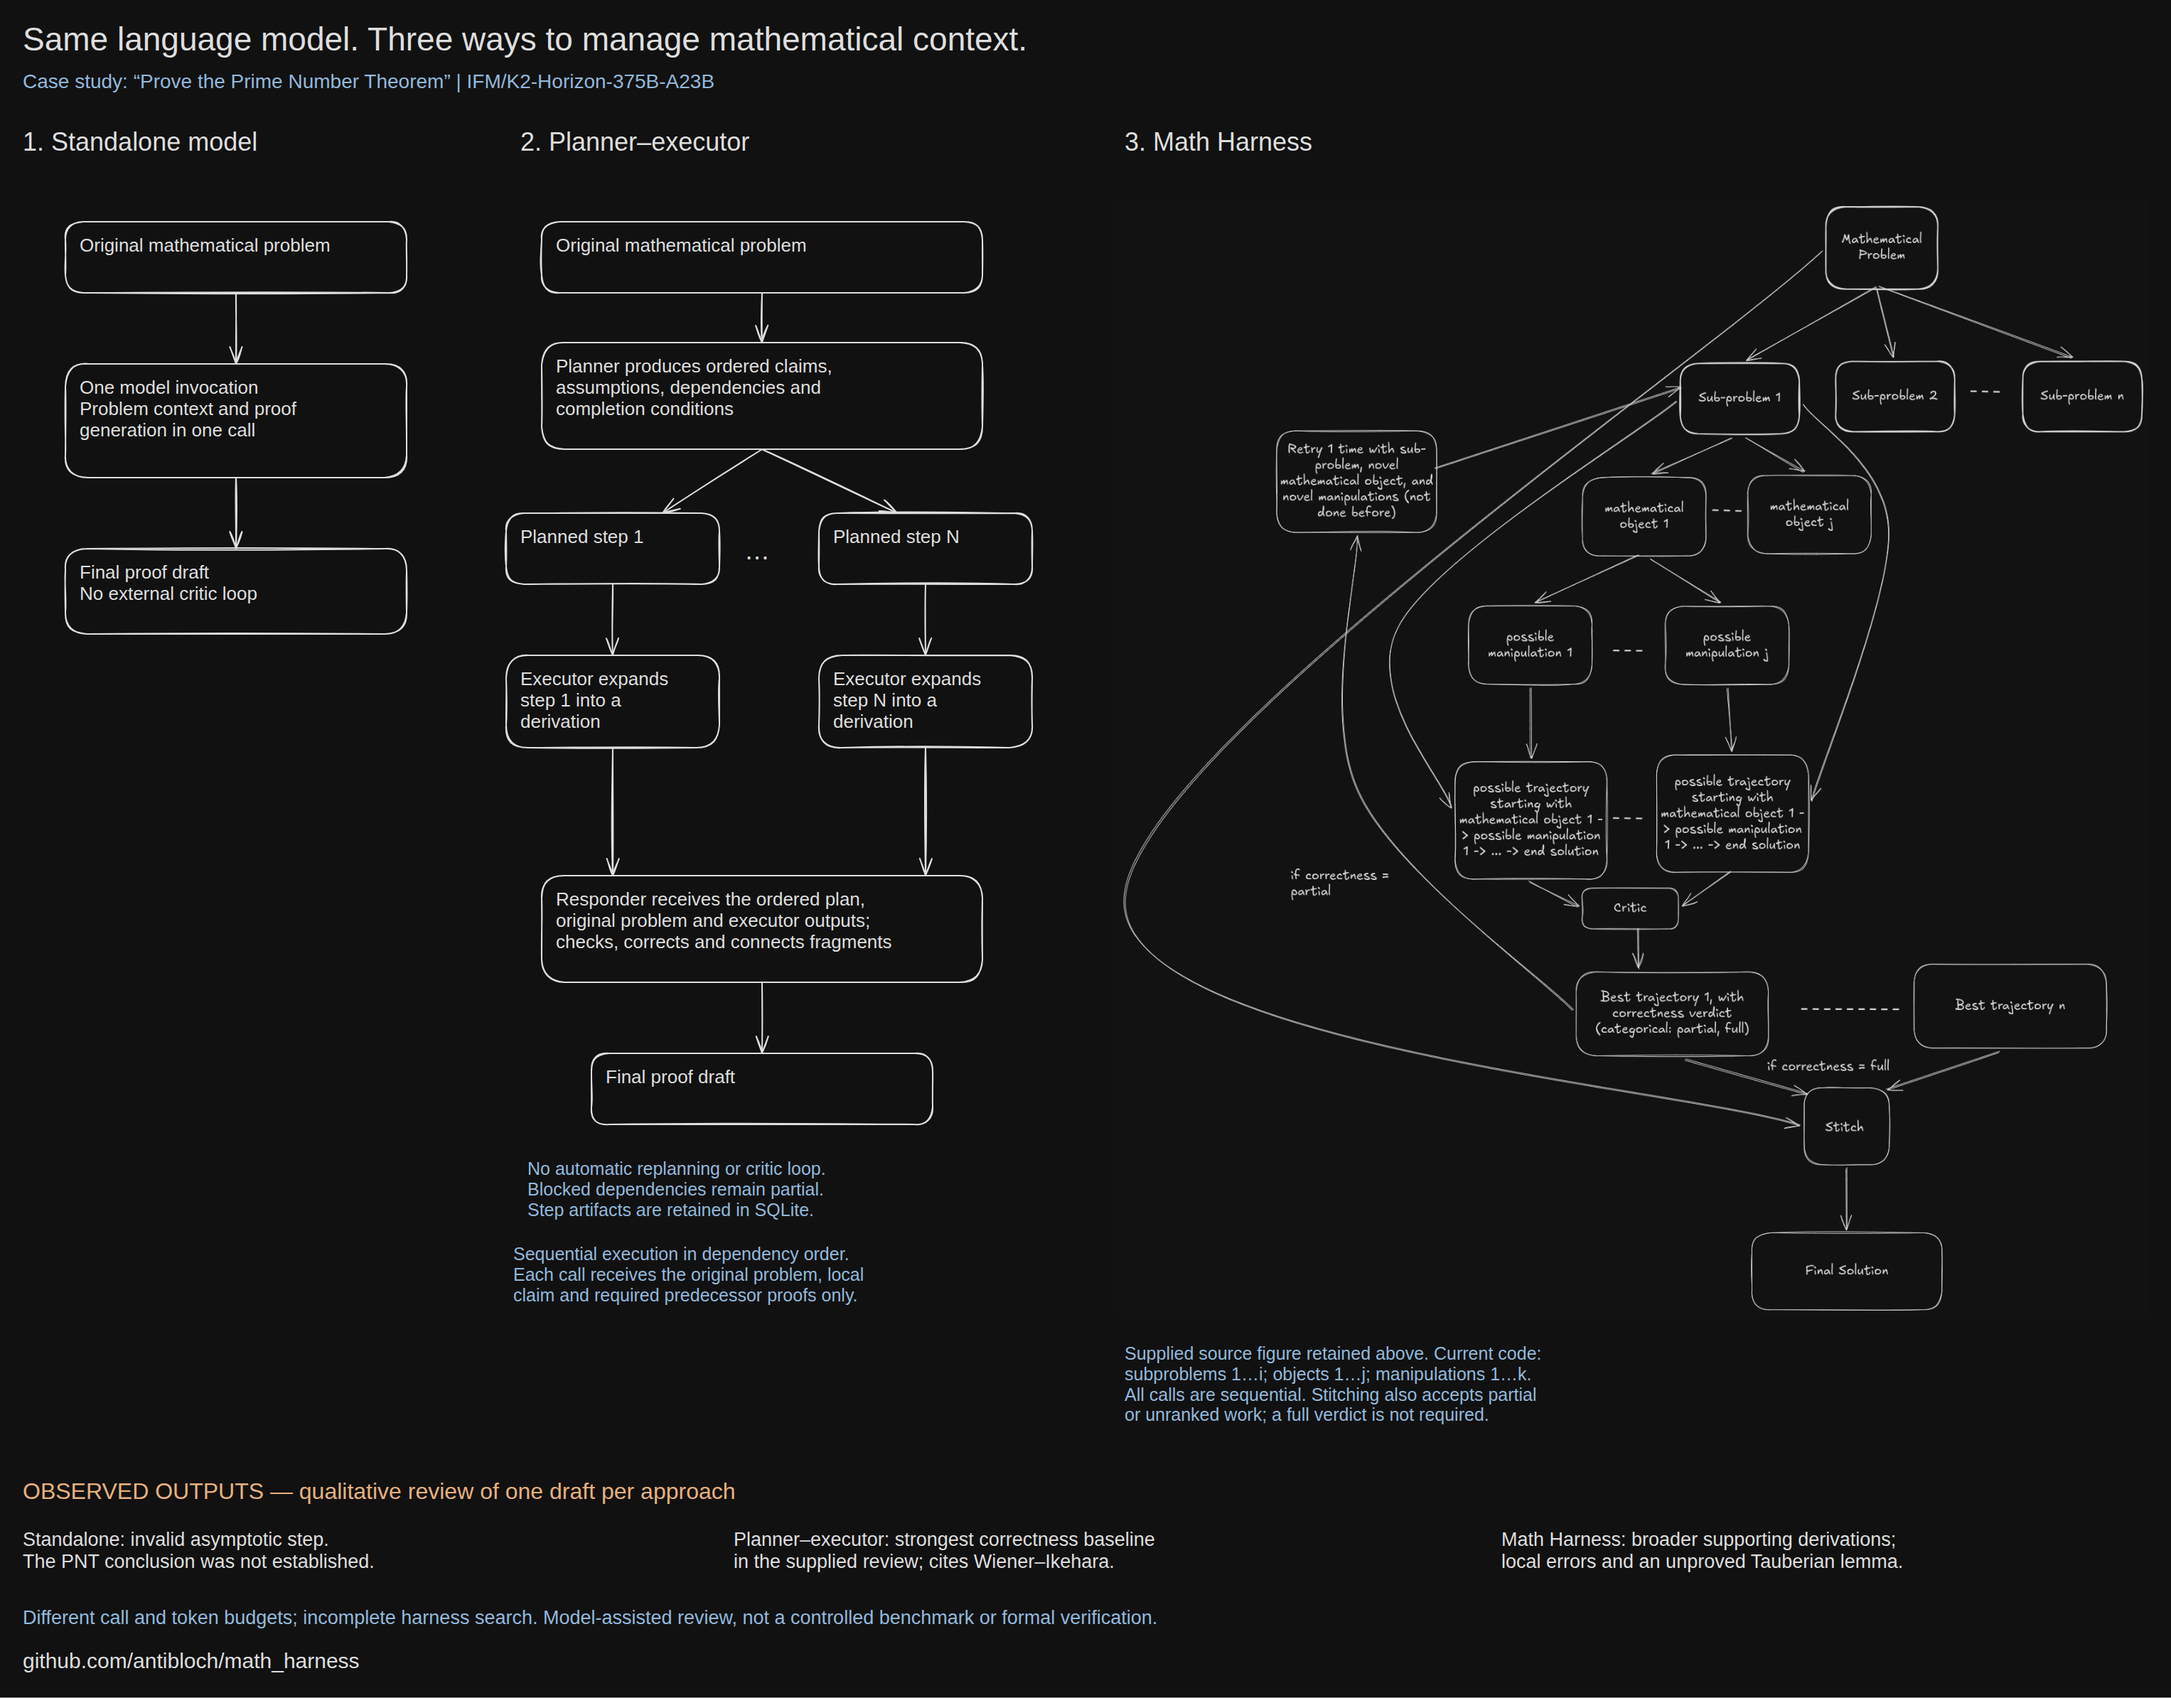
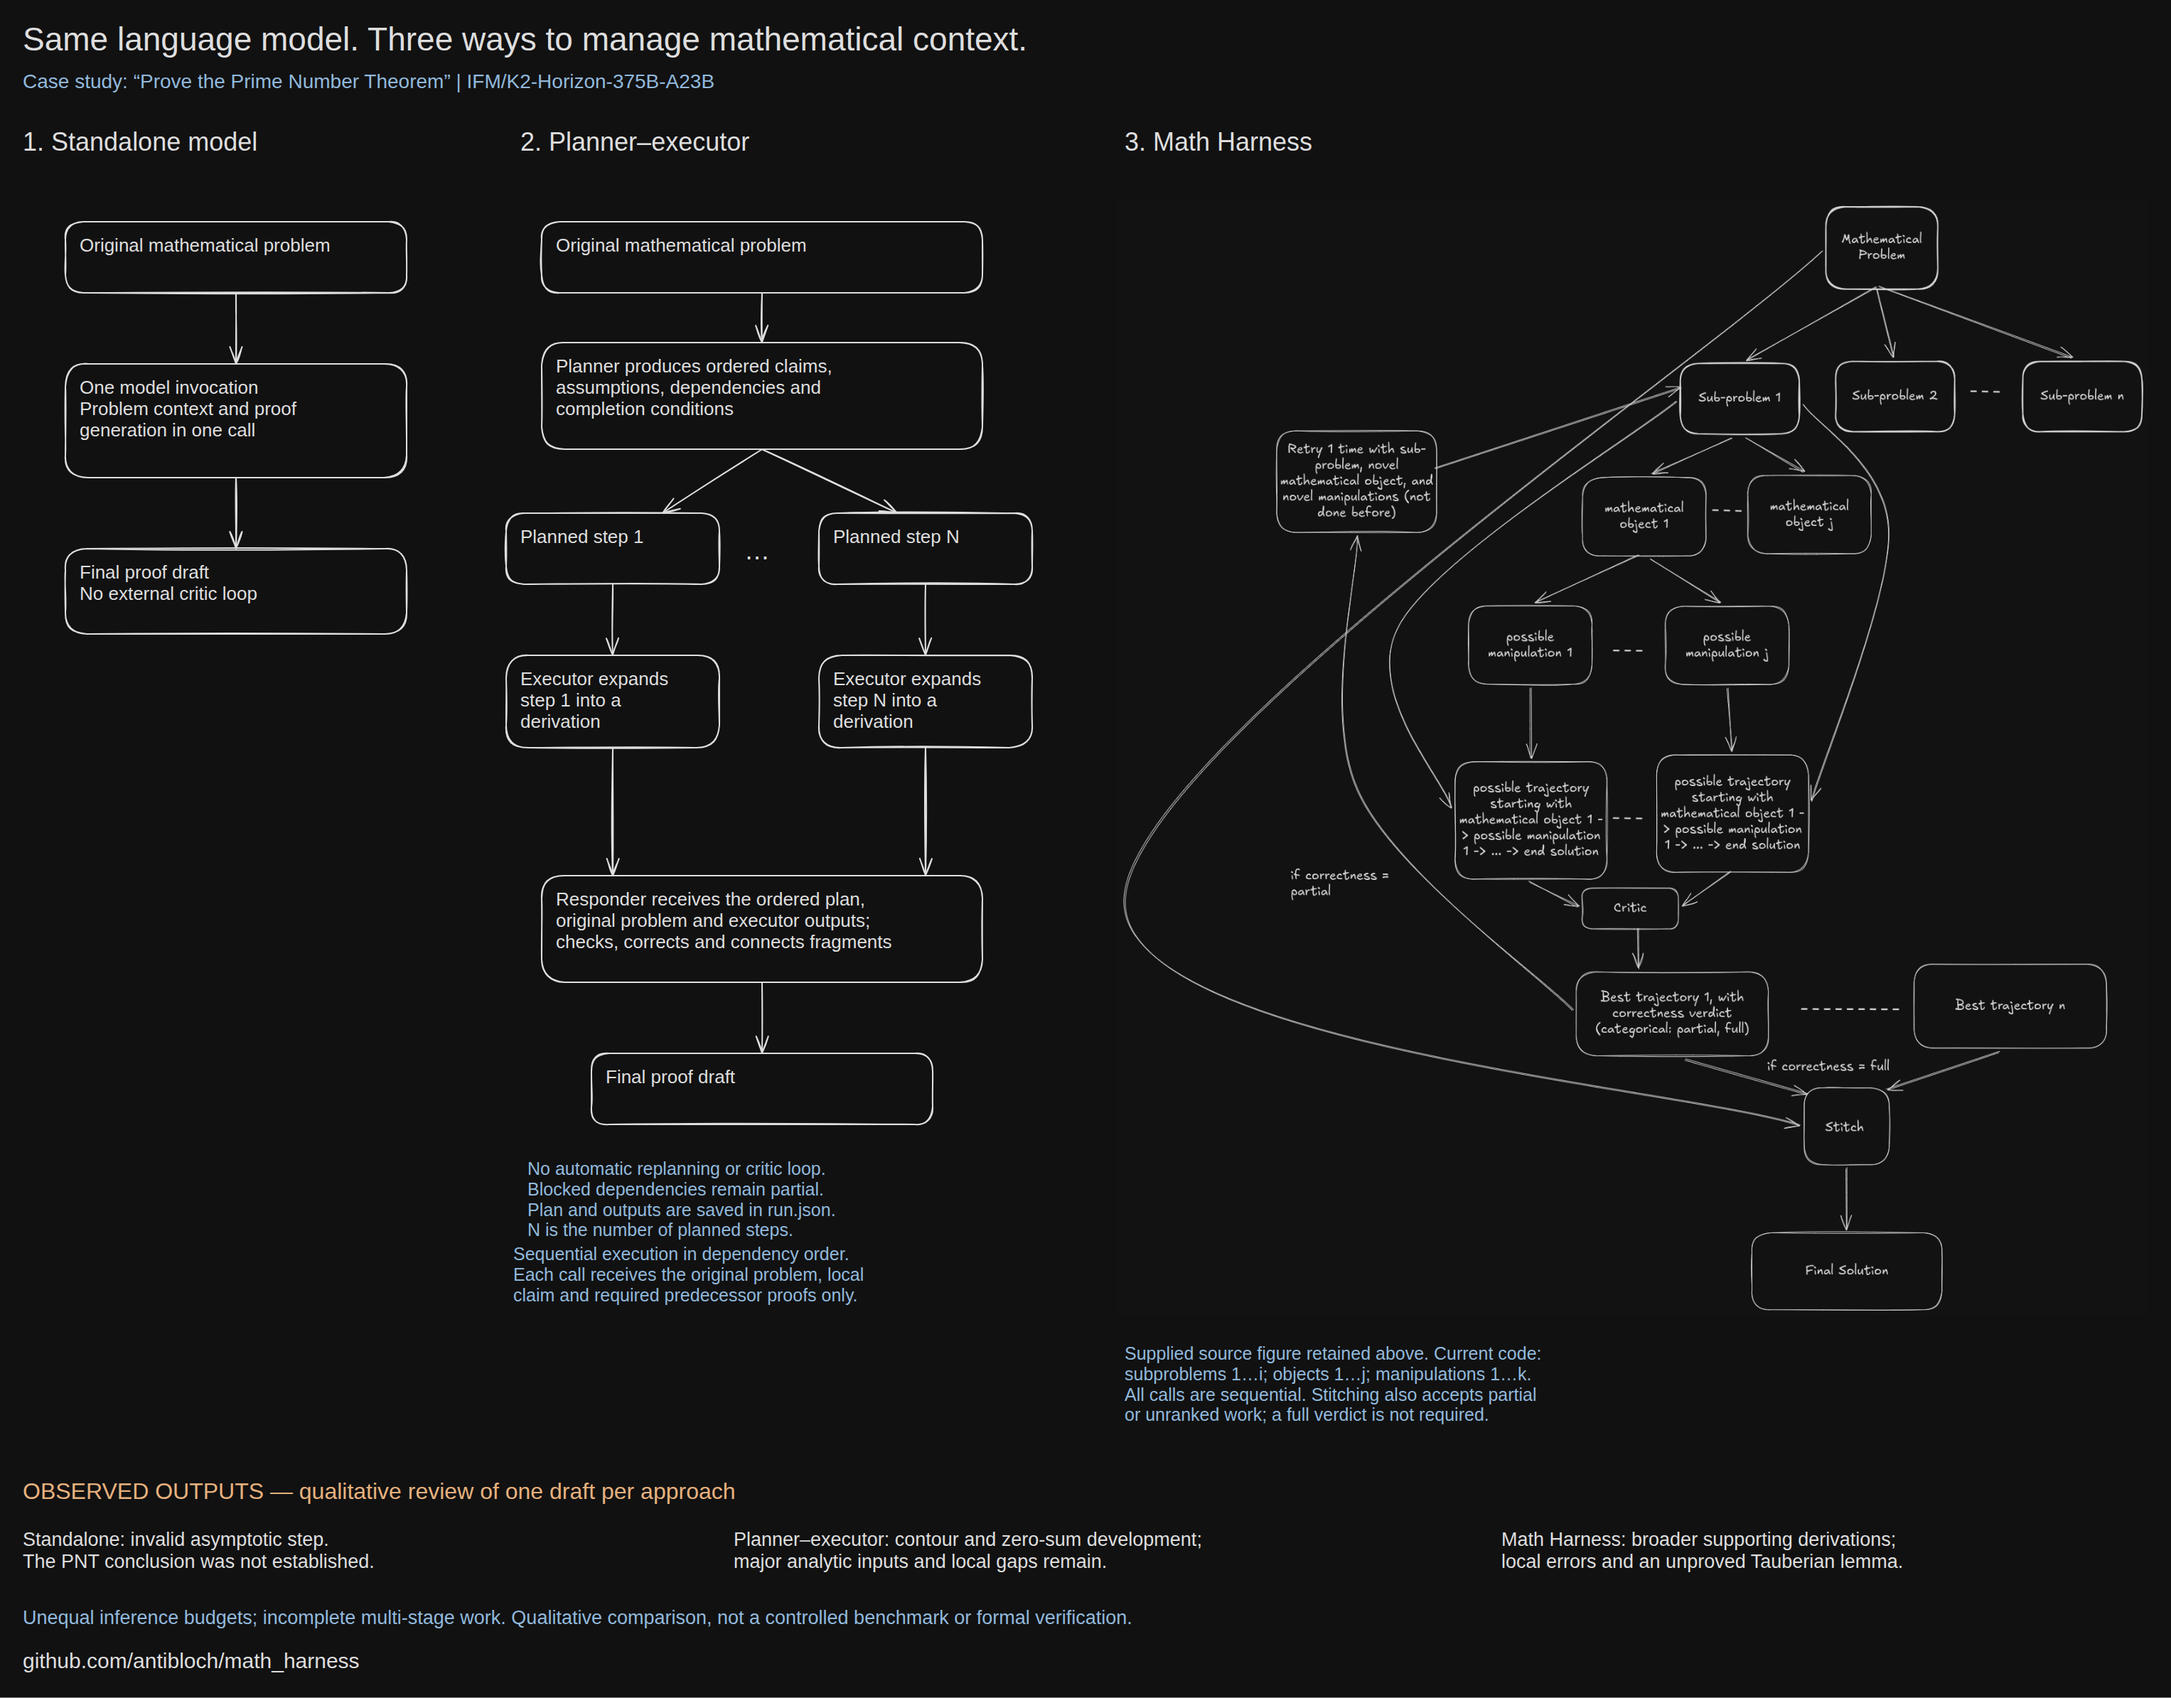
Compare only current proof samples and refresh figure

Changed region(s): [[0.0311, 0.8983, 0.5288, 0.9602], [0.2489, 0.7124, 0.3733, 0.7434]]

diff --git a/proofs/COMPARISON.md b/proofs/COMPARISON.md
@@ -16,18 +16,14 @@ The author reports using the same underlying model,
   manipulations, candidate trajectories, local criticism, one permitted local
   mathematical retry, and final stitching.
 
-The author compared the earlier samples using **GPT-6 Instant** and supplied its
-assessment. On 2026-10-24, the planner–executor sample was replaced with the new
-five-step run of this repository's minimal port. The original review therefore
-does **not** evaluate the currently linked planner–executor draft. Its previous
-“strongest correctness baseline” ranking is historical and is not carried forward.
+This assessment concerns only the three linked samples. It records concrete
+mathematical findings from their text and available run results. The current set
+has not received a joint GPT-6 Instant evaluation. This is a qualitative review,
+not a complete independent mathematical audit or a formal correctness certificate.
+Sample files retain the model's mathematical and formatting errors without
+editorial repair.
 
-The updated discussion records concrete issues in the replacement text; it is not
-a fresh GPT-6 Instant evaluation, a complete independent mathematical audit, or a
-formal correctness certificate. Sample files retain the model's mathematical and
-formatting errors without editorial repair. The earlier sample remains in Git history.
-
-### Replacement planner–executor run
+### Planner–executor run
 
 The prompt was “Prove PNT,” with exactly five planned steps. Steps 1 and 3 returned
 model-labeled drafts. Step 2 identified errors in its planned explicit formula and
@@ -46,7 +42,7 @@ output, copied unchanged.
 
 | Dimension | Standalone LLM | Planner–executor–responder | Math Harness |
 |-----------|----------------|----------------------------|--------------|
-| Overall finding | PNT deduction invalid as written | Replacement draft requires mathematical repairs; no current correctness winner established | Broad intermediate development, requiring corrections |
+| Overall finding | PNT deduction invalid as written | Developed contour/zero-sum strategy; mathematical repairs required | Broad intermediate development, requiring corrections |
 | Construction | Short contour-shift outline | Five-section contour/zero-sum argument with final synthesis from partial executor work | Development of elementary estimates, transforms, boundary behavior and synthesis |
 | Critical analytic bridge | Unsupported contour estimates and a false small-error inference | Truncated explicit formula and a cited quantitative zero-free region, with growing truncation height | Boundary zero-freeness and an explicit Laplace/Tauberian reduction |
 | External dependencies | Cites a zero-free region and unspecified estimates | Invokes truncated Perron estimates, contour bounds, the quantitative zero-free region and zero counting without full derivations | Invokes an unproved one-sided Tauberian lemma |
@@ -76,10 +72,9 @@ it cites substantial analytic input and fails at the deduction of \(\psi(x)\sim 
 
 ## Findings in the planner–executor draft
 
-The replacement develops the Euler product and logarithmic derivative, a truncated
-explicit formula, boundary nonvanishing, a quantitative zero-free region and a
-zero-sum estimate, followed by partial summation. It **does not invoke Wiener–Ikehara**.
-That description and the earlier correctness ranking applied to the superseded sample.
+The planner–executor draft develops the Euler product and logarithmic derivative,
+a truncated explicit formula, boundary nonvanishing, a quantitative zero-free region
+and a zero-sum estimate, followed by partial summation.
 
 A useful improvement over the standalone draft is **Section 4's growing height**
 \(T=\exp(\sqrt{\log x})\). With a suitably justified explicit formula and zero-free
@@ -113,9 +108,7 @@ However, this is still an unverified theorem-based draft, with substantial gaps:
   is proved independently.
 
 The strategy is viable with properly stated standard results and local repairs,
-but the replacement is not established as correct as written. It no longer
-supports the old claim that the linked planner–executor sample is the cleanest
-existing correctness baseline.
+but the draft is not established as correct as written.
 
 ## Findings in the Math Harness draft
 
@@ -157,16 +150,18 @@ That reference does not automatically validate the different lemma stated in thi
 
 ## What this experiment supports
 
-The earlier GPT-6 Instant review favored the **old planner–executor sample for
-theorem-based correctness** and **Math Harness for breadth of development**.
-Replacing one sample changes the evidence: that ranking cannot be reused for the
-current set without a fresh comparison.
+The standalone deduction fails at a decisive asymptotic step. The planner–executor
+draft gives a more developed contour/zero-sum route with the right type of decay,
+but relies on substantial analytic inputs and has unresolved justifications and
+local defects. Math Harness develops a broader elementary/Tauberian route, with
+its own gaps and corrupted expressions.
 
-Currently, the standalone deduction fails; the replacement planner–executor draft
-has a more developed contour/zero-sum route but unresolved justifications and
-local defects; Math Harness offers broader elementary/Tauberian development with
-its own gaps and corrupted expressions. Both multi-stage drafts supply useful
-material for repair. No overall correctness winner is established for this set.
+The two multi-stage outputs offer different kinds of mathematical depth:
+planner–executor makes the zero-sum strategy more explicit, while Math Harness
+expands the estimates, transforms and Tauberian bridge. Neither breadth nor a
+standard choice of strategy resolves the identified proof obligations. Both are
+useful drafts for repair; **no overall correctness winner is established** for
+these samples.
 
 This is one qualitative comparison, not a controlled benchmark:
 
@@ -175,7 +170,7 @@ This is one qualitative comparison, not a controlled benchmark:
 - The harness sample came from incomplete search: five subproblems received full
   model-critic verdicts, while four retained execution errors. The stitcher used
   assessed selections and available unranked work.
-- The replacement planner–executor run also had incomplete execution: only three
+- The planner–executor run also had incomplete execution: only three
   of five steps produced executor responses, one of those was partial, and final
   synthesis independently filled or replaced missing arguments.
 - A model's “full” verdict or successful draft status is not a mathematical certificate.

diff --git a/README.md b/README.md
@@ -23,9 +23,8 @@ The figure shows the logical branches; the implementation executes them sequenti
 
 The comparison retains the supplied harness source figure. Its logical branches
 do not imply parallel execution: the current implementation runs sequentially and
-also stitches partial or unranked work. Diagram outcome annotations describe the earlier proof samples. The planner–executor
-sample has since been replaced; see the current comparison below. Those annotations
-are historical observations, rather than general performance guarantees.
+also stitches partial or unranked work. Outcome annotations summarize the current
+sample drafts; they are not general performance guarantees.
 
 A runnable [minimal planner–executor port](planner_executer/README.md) is included:
 
@@ -45,16 +44,15 @@ The same underlying model, `IFM/K2-Horizon-375B-A23B`, was prompted with
 | Approach | Sample draft | Qualitative finding |
 |----------|--------------|---------------------|
 | Standalone LLM | [Proof](proofs/standalone_llm_proof.md) | Invalid decisive asymptotic inference; the PNT deduction fails. |
-| Planner–executor–responder | [Proof](proofs/planner_executor_proof.md) | New five-step draft: develops a contour/zero-sum route, but invokes major analytic results and retains unsupported estimates; its previous correctness ranking no longer applies. |
+| Planner–executor–responder | [Proof](proofs/planner_executor_proof.md) | Five-step contour/zero-sum draft: improves the asymptotic decay argument, but relies on substantial analytic inputs and retains unjustified estimates and local errors. |
 | Math Harness | [Proof](proofs/math_harness_proof.md) | Broad elementary and Tauberian development, but local errors, corrupted expressions and an unproved Tauberian lemma remain. |
 
-Read the [proof-quality comparison](proofs/COMPARISON.md) for specific findings,
-external theorem dependencies, and evaluation limitations. The initial comparison
-was performed using **GPT-6 Instant**, as reported by the author, on the earlier
-samples. The replacement planner–executor draft has not undergone that same
-comparison; its updated assessment records issues found in the new text. These
-are unverified drafts from unequal inference budgets, and both multi-stage samples
-include incomplete intermediate work. No general superiority is established.
+Read the [proof-quality comparison](proofs/COMPARISON.md) for evidence from the
+three linked files, external theorem dependencies, and evaluation limitations.
+The current set has not received a joint GPT-6 Instant evaluation or formal
+verification. Both multi-stage samples include incomplete intermediate work and
+were generated with unequal inference budgets. No overall correctness winner or
+general architectural superiority is established.
 
 ## Requirements
 
